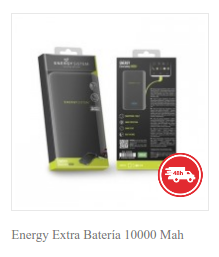
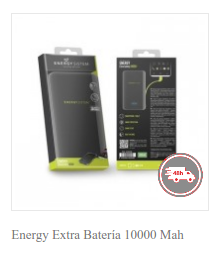
Create ejercicio 5 y 6

Changed region(s): [[0.7123, 0.5914, 0.9315, 0.7782]]

diff --git a/ejercicio1_2/ejercicio6.html b/ejercicio1_2/ejercicio6.html
@@ -1,0 +1,39 @@
+<!DOCTYPE html>
+<html lang="en">
+<head>
+  <meta charset="UTF-8">
+  <meta http-equiv="X-UA-Compatible" content="IE=edge">
+  <meta name="viewport" content="width=device-width, initial-scale=1.0">
+  <title>Desafio 6</title>
+  <style>
+    .container {
+      box-sizing: border-box;
+      width: 400px;
+      height: 400px;
+      margin: auto;      
+    }
+    .img1 {
+      position: relative;  
+      text-align: center;
+      z-index: 0;
+    }
+    .ribbon {
+      position: absolute;
+      top: 150px;
+      right: 100px;
+      z-index: 10;
+    }
+  </style>
+</head>
+<body>
+  <div class="container">
+    <div class="img1">
+      <img src="../assets/img/ejercicio-6.png" alt="">
+      <div class="ribbon">
+        <img style="width: 60px;" src="../assets/img/ejercicio-6_ribbon.png" alt="">
+      </div>
+    </div>
+    
+  </div>
+</body>
+</html>
